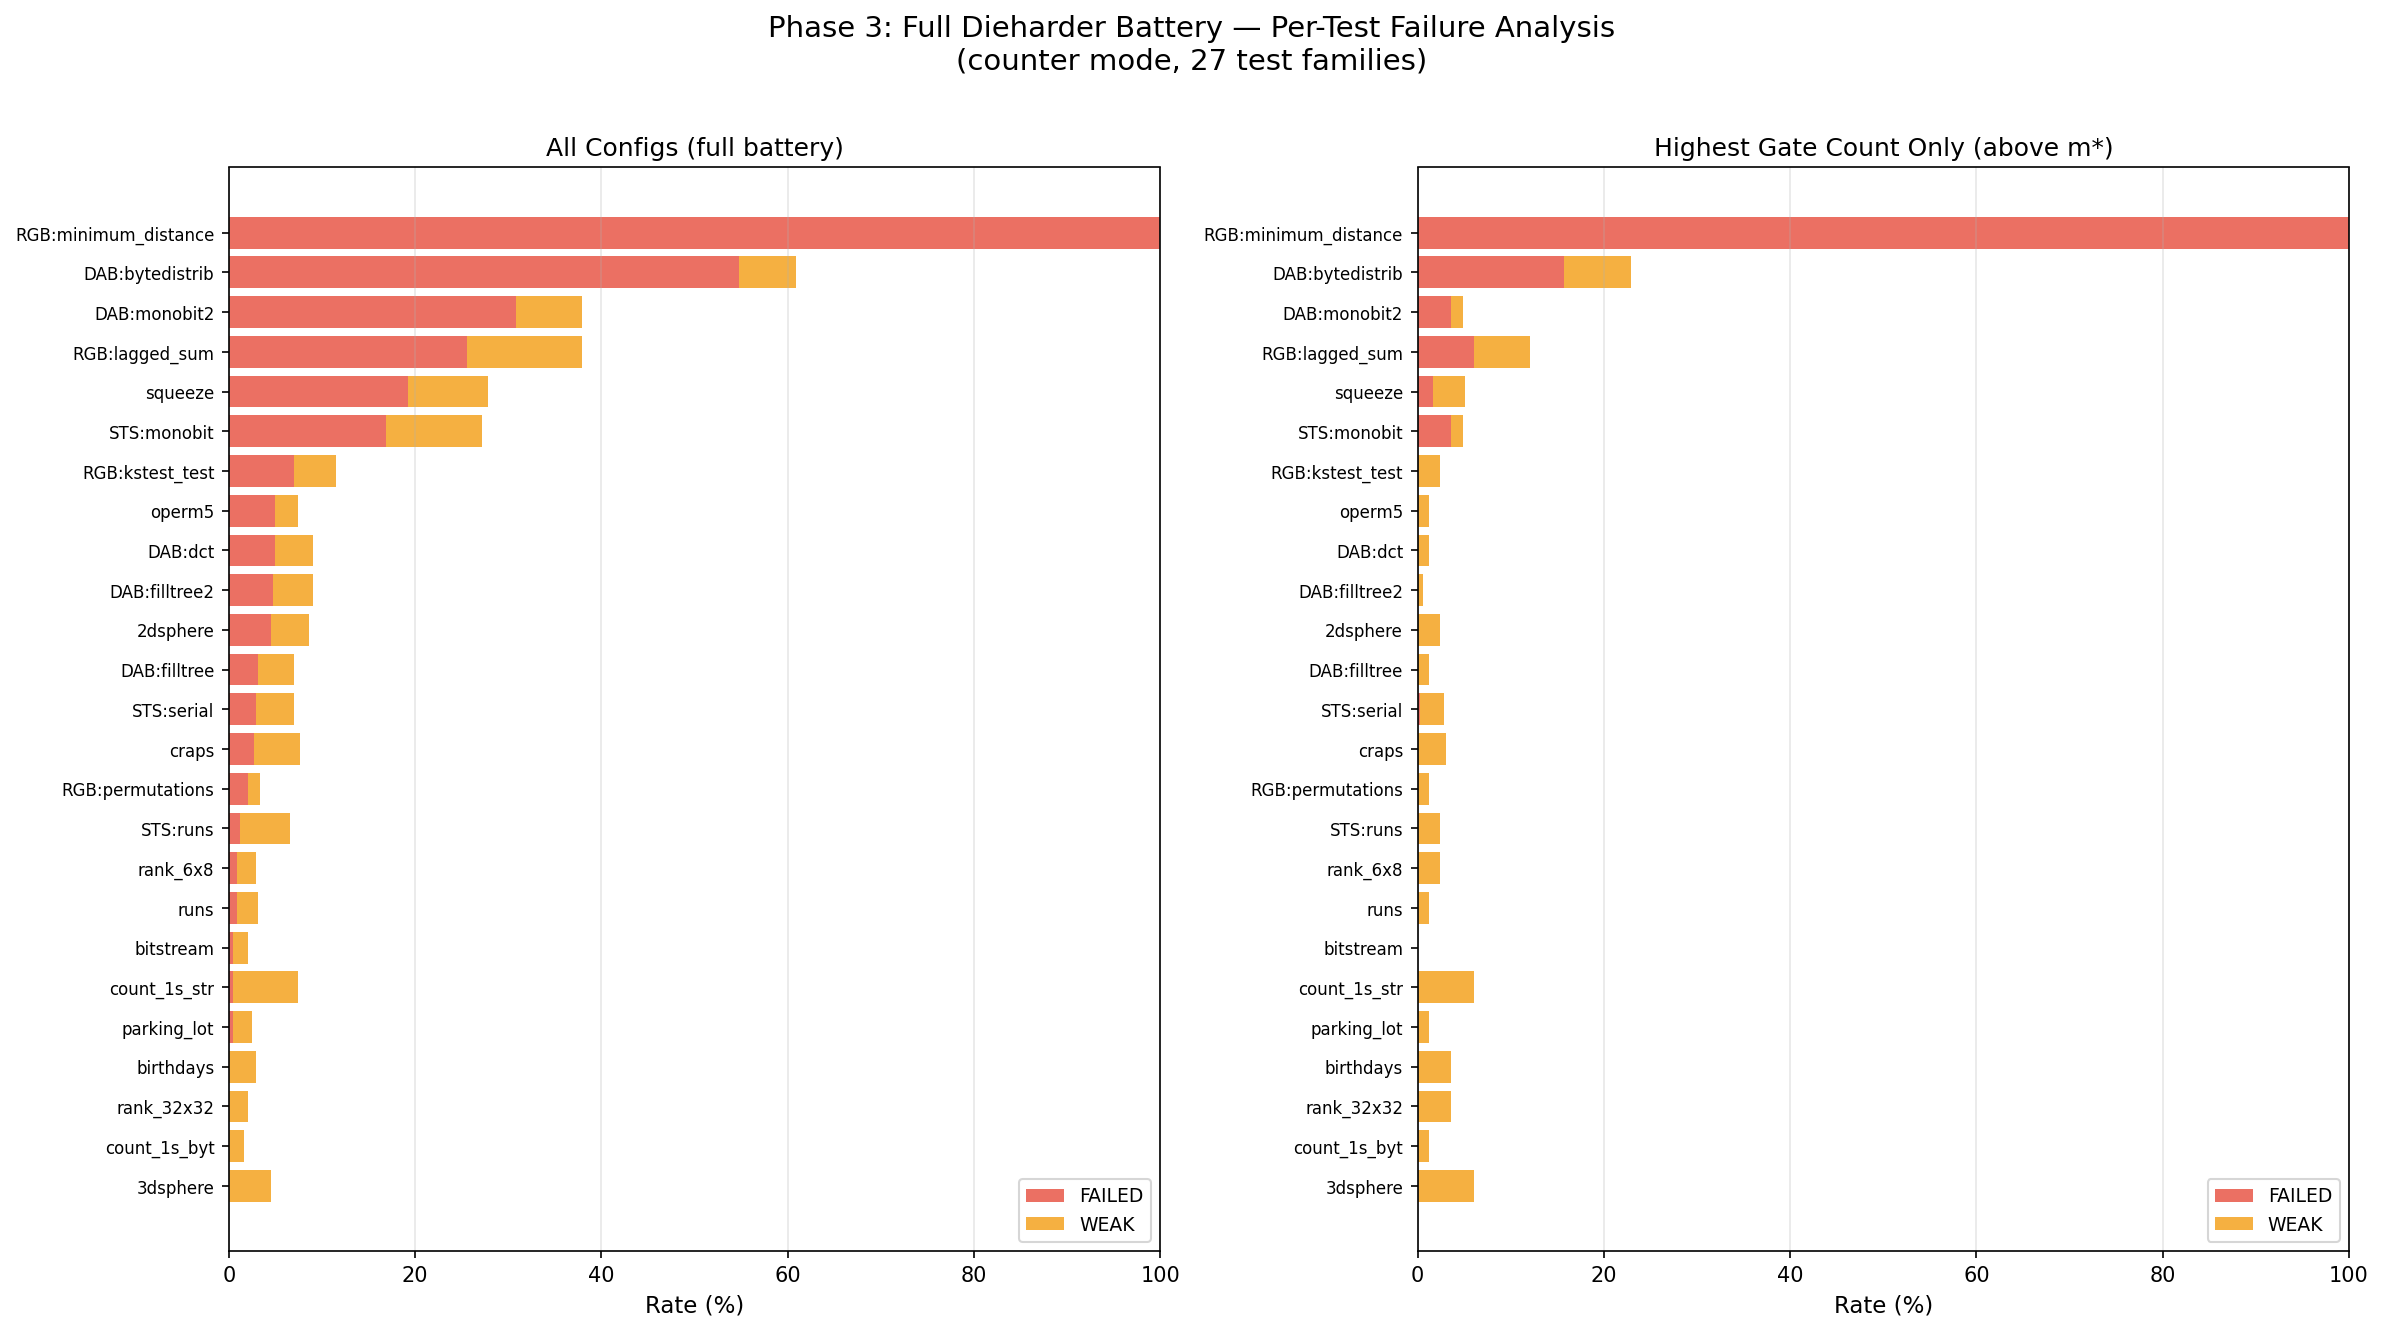
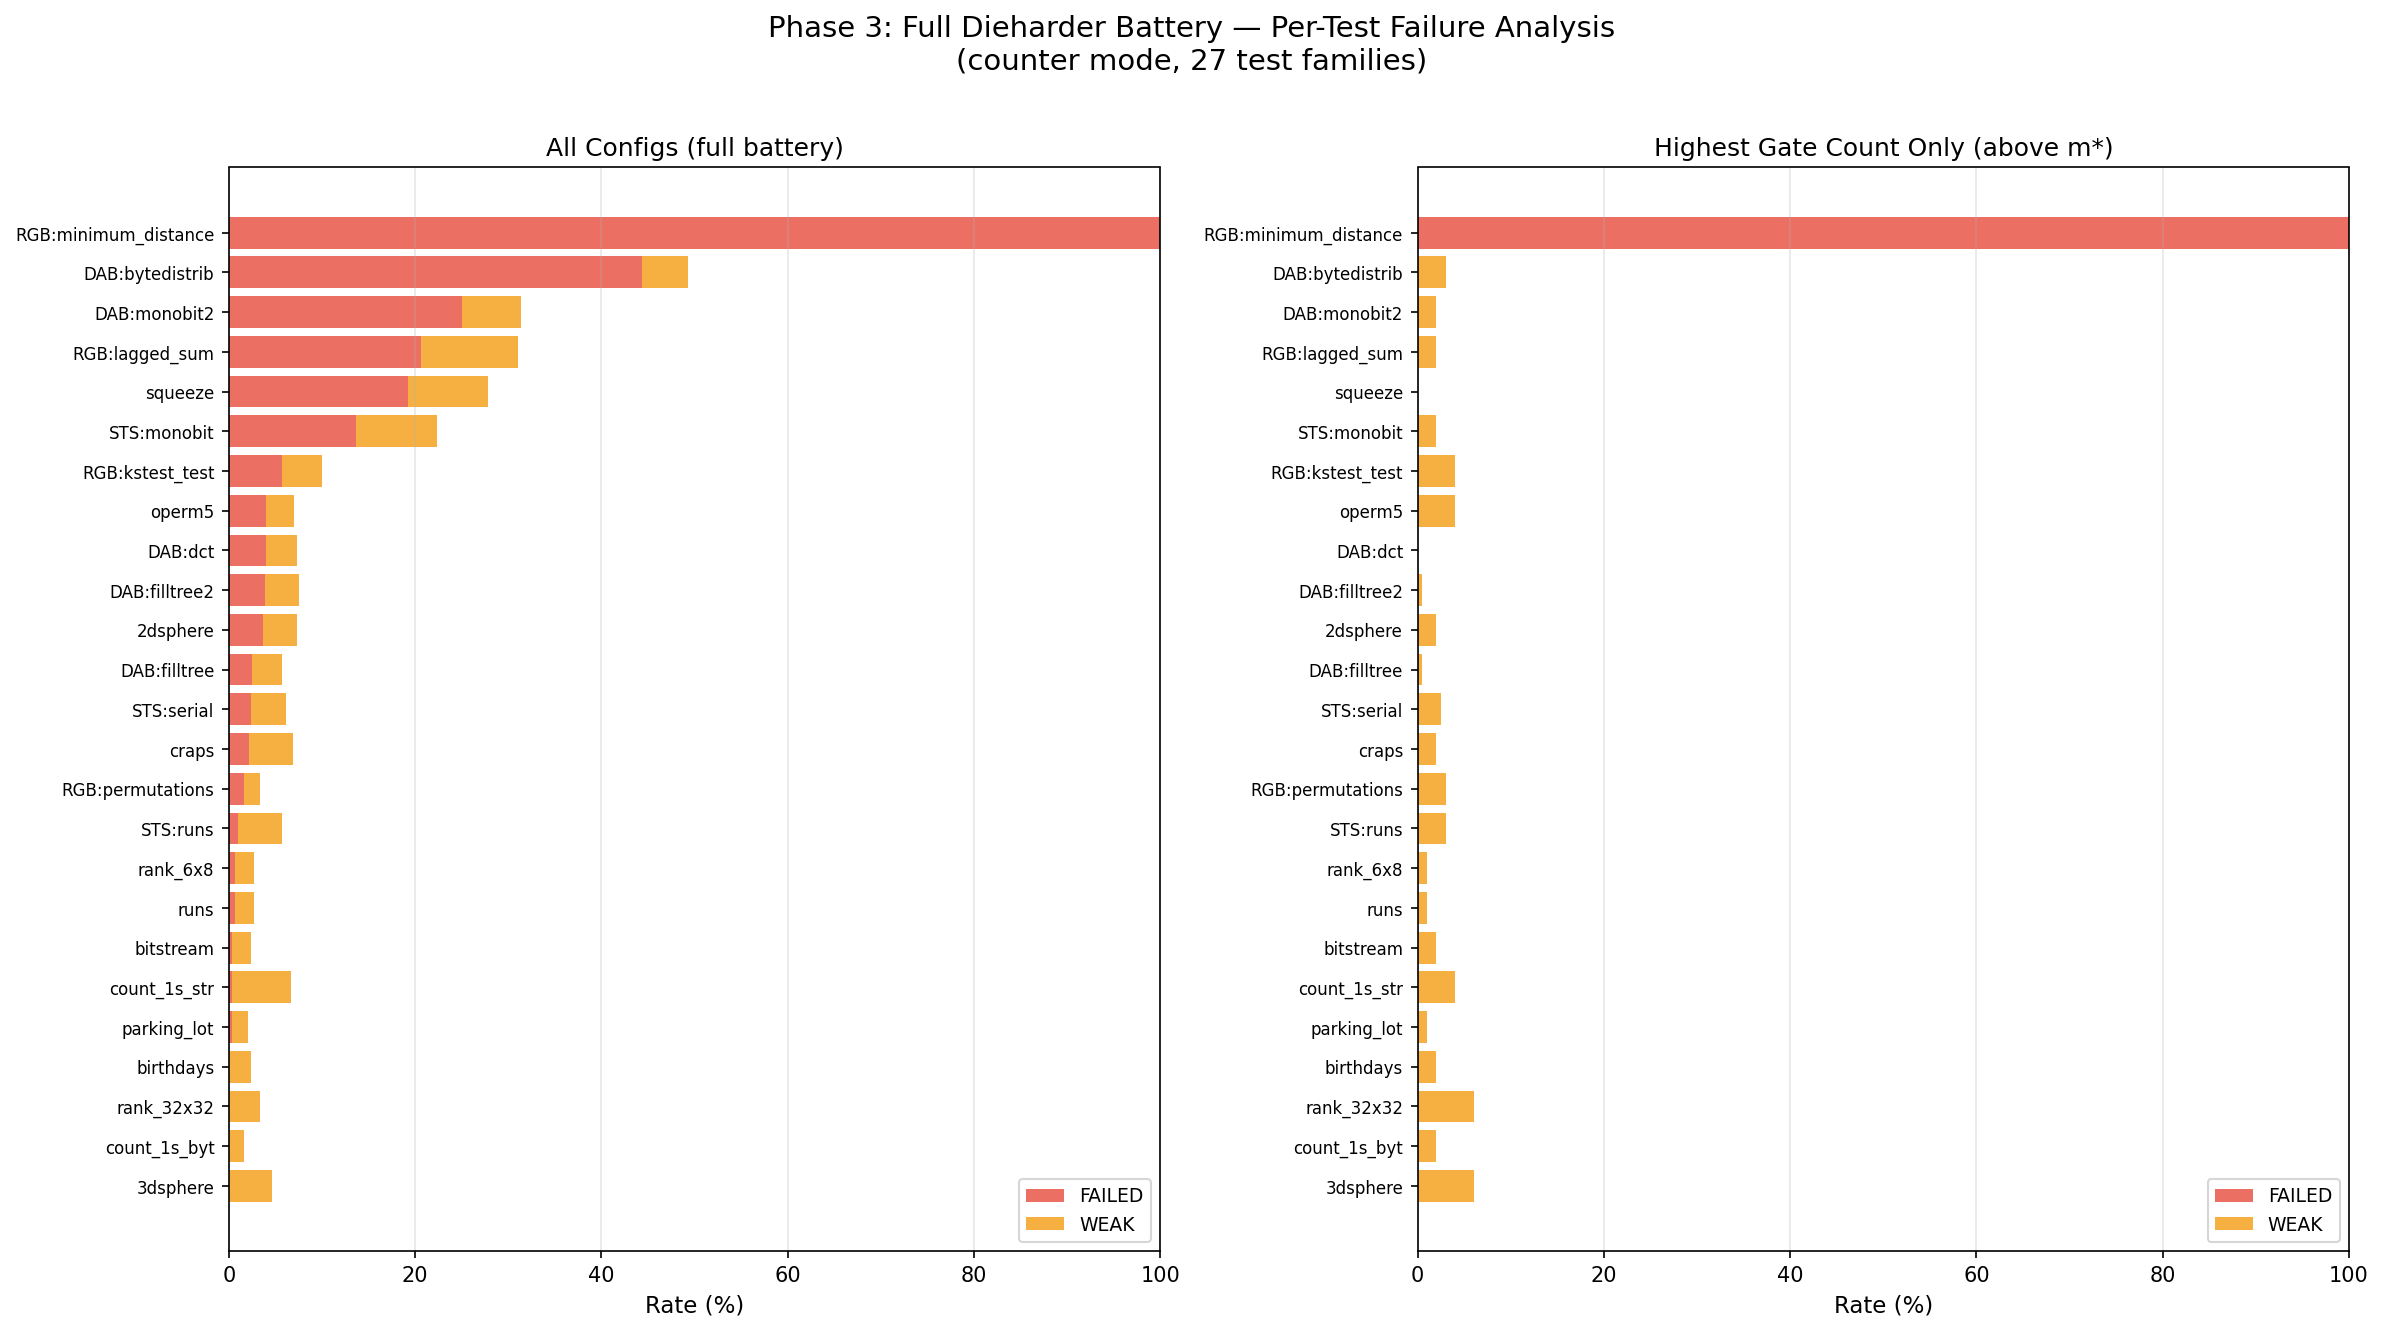
Phase 3 complete (300/300), refresh all RNG results and plots
Phase 3 full dieharder battery now fully complete. Updated docs to reflect
COMPLETE status, refreshed plots and analysis with complete data. Pass rates
excluding rgb_minimum_distance reach 50-75% (WEAK accumulation artifact).

diff --git a/rng/RESULTS.md b/rng/RESULTS.md
@@ -158,7 +158,7 @@ failure even at gate counts well above the Phase 1 m\*.
 
 ### Root Cause: `rgb_minimum_distance` (test ID 201)
 
-This test fails with p=0.0 in **100% of all replicates** (243/243), including
+This test fails with p=0.0 in **100% of all replicates** (300/300), including
 configurations at the highest gate counts (e.g., n=128, m=4000 — which scored
 100% on the 7-core battery).
 
@@ -185,13 +185,14 @@ All other tests pass at rates consistent with the 7-core results.
 ### Reanalysis Excluding `rgb_minimum_distance`
 
 Even after excluding `rgb_minimum_distance`, pass rates at the highest gate counts
-reach only 55–69% — not 95%. The remaining failures are caused by **WEAK accumulation**:
+reach only 50–75% — not 95%. The remaining failures are caused by **WEAK accumulation**:
 with 58 test statistics and max_weak=1, even a perfect random generator would pass
 only ~89% of the time (binomial: P(≤1 WEAK out of 58) ≈ 0.89 at p_weak ≈ 0.01).
 
-Additionally, `dab_bytedistrib` shows elevated failure rates (~25%) at gate counts
-near the transition. At the highest gate counts (well above m\*), no individual test
-consistently fails — the reduced pass rate is entirely from WEAK accumulation.
+Additionally, `dab_bytedistrib` shows elevated failure rates at gate counts
+near the transition (up to 65% at n=64, g=1100). At the highest gate counts
+(well above m\*), no individual test consistently fails — the reduced pass rate
+is entirely from WEAK accumulation.
 
 **The max_weak=1 criterion is calibrated for 7–8 p-values, not 58.** For the full
 battery, a higher max_weak threshold (or per-test assessment) is needed.
@@ -203,15 +204,6 @@ The `rgb_minimum_distance` failure is structural (discrete permutation outputs),
 and the remaining gap is a statistical artifact of the max_weak=1 criterion
 applied to many tests. The 7-core battery is sufficient for characterizing
 the PRP transition.
-
-### Missing Data (still running)
-
-| Width | Gates | Status |
-|-------|-------|--------|
-| 32 | 800 | Missing |
-| 48 | 1200 | Missing |
-| 64 | 1500 | 7/20 complete |
-| 96 | 3000 | 16/20 complete |
 
 ---
 
@@ -400,7 +392,6 @@ pseudorandomness threshold. They test one fixed cipher to confirm it's random.
 
 ## What Remains
 
-1. **Phase 3**: Complete missing high-gate-count jobs (w32/g800, w48/g1200, partial w64/w96)
-2. **Phase 4**: NIST STS (188 tests) for comparability with USE report
-3. **Scaling law fit**: m\*(n) ~ n^alpha or n*log(n) from the refined data points
-4. **Related-key depth analysis**: Stratify Phase 6 p-values by prefix depth
+1. **Phase 4**: NIST STS (188 tests) for comparability with USE report
+2. **Scaling law refinement**: n=256, 512 to discriminate linear from superlinear
+3. **Related-key depth analysis**: Stratify Phase 6 p-values by prefix depth

diff --git a/rng/RNG_TEST_PLAN.md b/rng/RNG_TEST_PLAN.md
@@ -151,7 +151,7 @@ See [CLUSTER_RNG.md](../../local_mixing/CLUSTER_RNG.md) for the full deployment 
 |-------|------------|-------|------|------|--------|
 | 1 | Coarse scan, all widths | 7 core dieharder | counter | 4,000 | **COMPLETE** |
 | 2 | Transition refinement | 7 core dieharder | counter | 1,400 | **COMPLETE** |
-| 3 | Full dieharder battery | 27 families (~114 tests) | counter | 300 | **PARTIAL** (243/300) |
+| 3 | Full dieharder battery | 27 families (~114 tests) | counter | 300 | **COMPLETE** |
 | 4 | NIST STS | 15 categories (188 tests) | counter | 200 | TODO |
 | 5 | Iterate/OFB comparison | 7 core dieharder | iterate | 800 | **COMPLETE** |
 | 6 | Related-key (prefix) test | 7 core dieharder | related-key | 300 | **COMPLETE** (0% pass) |
@@ -208,8 +208,7 @@ python scripts/plot_rng_sweep.py --results all.json
 
 ## What Remains
 
-1. **Phase 3 completion**: 243/300 jobs done; remaining 57 still on cluster
-2. **Phase 4 (NIST STS)**: Not yet started on cluster
+1. **Phase 4 (NIST STS)**: Not yet started on cluster
 3. **Scaling law refinement**: Current 5 data points give R² > 0.98 for all models (n·log n, n·(log n)^k, linear, power law) — need n=256, 512 to discriminate
 4. **Phase 3 acceptance criteria**: Full battery (58 p-values) needs relaxed max_weak threshold; current max_weak=1 gives ~89% expected pass rate for a perfect generator
 

diff --git a/rng/RNG_REPORT.md b/rng/RNG_REPORT.md
@@ -1,7 +1,7 @@
 # Random Circuits as Pseudorandom Permutations: RNG Testing Report
 
 **Date:** 2026-02-22
-**Status:** Phases 1, 2, 5, 6 complete. Phase 3 partial. Phase 4 TODO.
+**Status:** Phases 1, 2, 3, 5, 6 complete. Phase 4 TODO.
 
 ---
 
@@ -378,15 +378,14 @@ See [RESULTS.md](RESULTS.md) for full per-width tables and all plots.
 |-------|------------|------|--------|
 | 1 | Coarse scan (7 tests, CTR, R=100) | 4,000 | **COMPLETE** |
 | 2 | Transition refinement (7 tests, CTR, R=100) | 1,400 | **COMPLETE** |
-| 3 | Full dieharder battery (27 families, counter) | 300 | **PARTIAL** (243/300) |
+| 3 | Full dieharder battery (27 families, counter) | 300 | **COMPLETE** |
 | 4 | NIST STS (188 tests) for USE report comparability | 200 | TODO |
 | 5 | OFB/iterate mode comparison (7 tests, R=20) | 800 | **COMPLETE** |
 | 6 | Related-key prefix test (7 tests, R=20) | 300 | **COMPLETE** (0% pass) |
 
 Remaining:
-- Complete Phase 3 missing high-gate-count jobs
 - Phase 4: NIST STS for direct USE report comparability
-- Scaling law fit from refined m\*(n) data
+- Scaling law refinement: n=256, 512 to discriminate linear from superlinear
 
 See [RNG_TEST_PLAN.md](RNG_TEST_PLAN.md) and [CLUSTER_RNG.md](CLUSTER_RNG.md).
 

diff --git a/rng/CLUSTER_RNG.md b/rng/CLUSTER_RNG.md
@@ -375,7 +375,7 @@ python3 scripts/plot_rng_sweep.py --results rng_sweep_all.json
 |-------|------|------|----------------|--------|
 | 1 | Coarse scan (7 tests, counter) | 4,000 | 1–2 hr | **COMPLETE** |
 | 2 | Transition refinement (7 tests, counter) | 1,400 | 1 hr | **COMPLETE** |
-| 3 | Full dieharder battery (27 tests, counter) | 300 | 2 hr | **PARTIAL** (243/300) |
+| 3 | Full dieharder battery (27 tests, counter) | 300 | 2 hr | **COMPLETE** |
 | 4 | NIST STS (188 tests, counter) | 200 | 1 hr | TODO |
 | 5 | Iterate mode comparison (7 tests, iterate) | 800 | 1 hr | **COMPLETE** |
 | 6 | Related-key test (7 tests, related-key) | 300 | 2 hr | **COMPLETE** (0% pass) |
